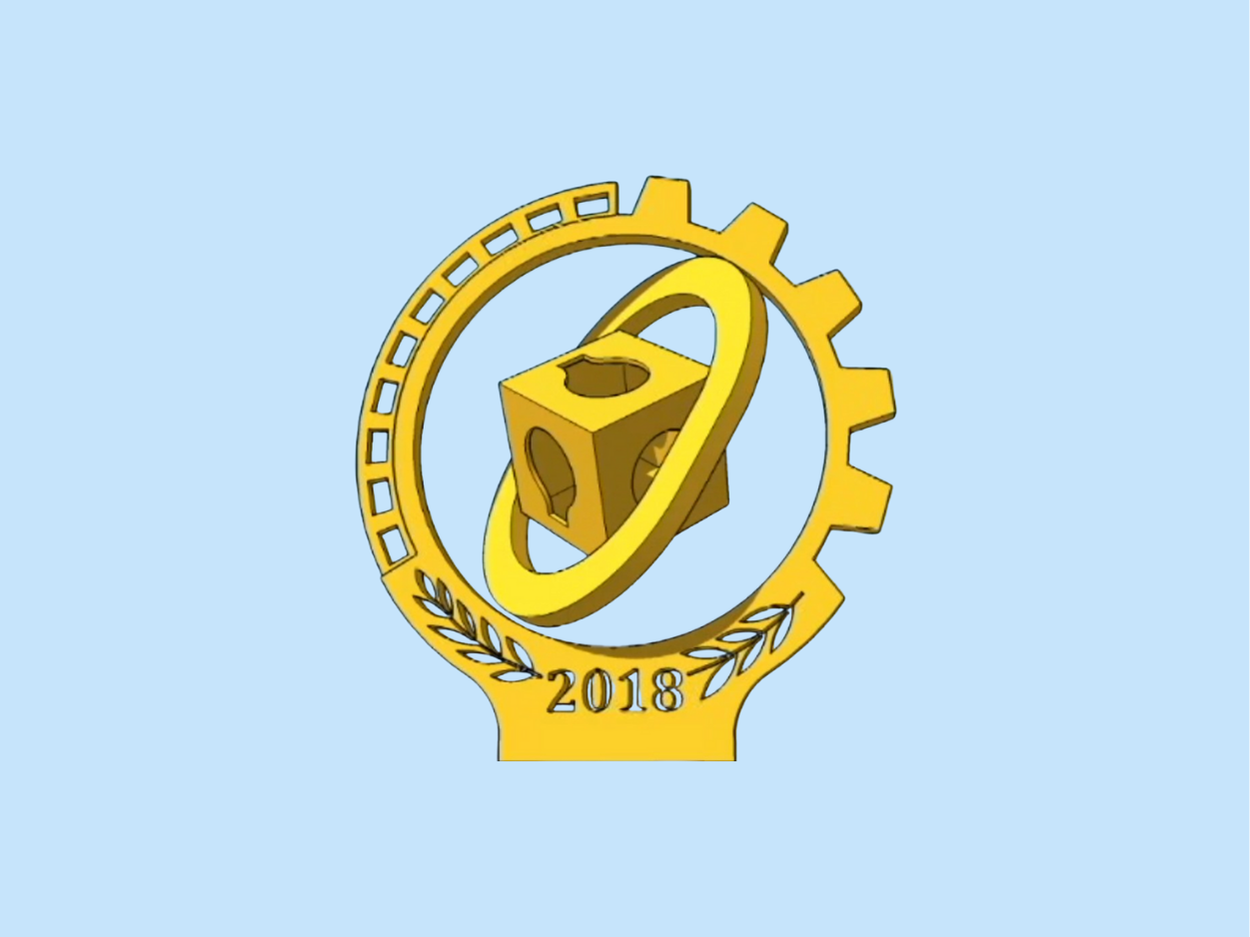
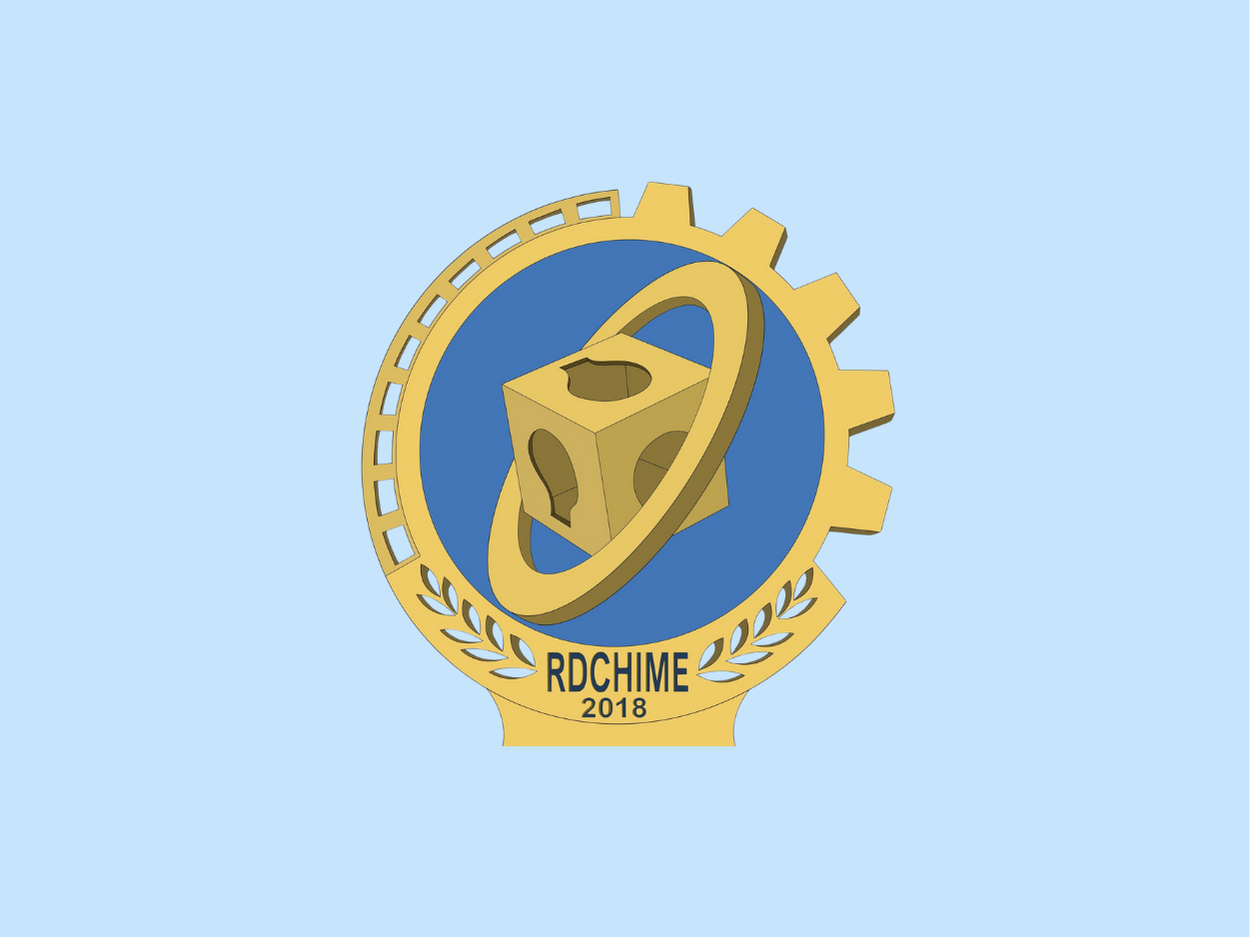
Homepage   new changes (#9)
* may mga binago lang sa homepage

* pinalitan ko logo kasi may bagong post rdchime mas malinaw at maganda yung logo

Changed region(s): [[0.2808, 0.1857, 0.7176, 0.8356]]

diff --git a/homescript.js b/homescript.js
@@ -28,9 +28,9 @@ const app = initializeApp(firebaseConfig);
 const db = getFirestore(app);
 
 
-/* Video Background Handler */
+// Video Background Handler 
 document.addEventListener("DOMContentLoaded", () => {
-  const video = document.getElementById("church-video");
+  const video = document.getElementById("rdchime-video");
   if (video) {
     video.playbackRate = 0.75;
     document.addEventListener("visibilitychange", () => {
@@ -43,7 +43,7 @@ document.addEventListener("DOMContentLoaded", () => {
   }
 });
 
-/* Navigation */
+// Navigation 
 const menuToggle = document.getElementById("menu-toggle");
 const menuClose = document.getElementById("menu-close");
 const mobileMenu = document.getElementById("mobile-menu");

diff --git a/index.html b/index.html
@@ -58,7 +58,7 @@
     <main>
       <section id="home" class="hero">
         <div class="video-background">
-          <video autoplay muted loop id="church-video">
+          <video autoplay muted loop id="rdchime-video">
             <source src="pexels-2022395.mp4" type="video/mp4">
           </video>
           <div class="overlay"></div>
